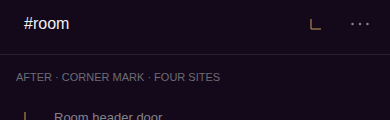
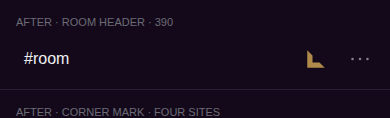
Redraw the corner mark as a filled slashed-frame polygon.
The two-stroke L was too thin; this keeps the bottom-left half of a square
frame as one filled polygon, with thickness held at the 4.5 placeholder.

diff --git a/apps/mobile/sources/components/buzz/CornerGlyph.tsx b/apps/mobile/sources/components/buzz/CornerGlyph.tsx
@@ -1,8 +1,7 @@
 import React from 'react';
-import Svg, { Line } from 'react-native-svg';
+import Svg, { Polygon } from 'react-native-svg';
 import { DECORATIVE_GLYPH_PROPS } from './decorative-glyph';
 import brand from '@/buzz/brand.json';
-import { CHROME_STROKE_REF_SIZE, chromeStrokeWidth } from './MembersGlyph';
 
 /**
  * The corner sigil, drawn rather than typed. Neither `◇` nor `└` is in Space
@@ -12,28 +11,36 @@ import { CHROME_STROKE_REF_SIZE, chromeStrokeWidth } from './MembersGlyph';
  * box is centred on the box by construction, so it sits level with the
  * overflow mark beside it with nothing to tune.
  *
- * The extent is 15 of the 24 viewBox at the 16px size that first matched the
- * overflow dots (~10px painted, the character's ~0.6em). The header now draws
- * at 28; the overflow holds its painted radius to that 16px weight, so this
- * mark holds the same ~10px painted extent instead of growing with the box.
- * Inline sizes (13, 11) stay on 15-of-24.
- *
- * Two strokes meeting at the bottom left: the box-drawing corner the Room
- * list already read as the kind mark, never a diamond.
+ * A square frame slashed corner to corner, bottom-left half kept: one filled
+ * polygon whose cut ends land on the diagonal, so each arm is full thickness
+ * at the elbow and tapers to a point. Extent is 15 of the 24 viewBox — the
+ * same relationship the retired diamond used so the header mark stays
+ * optically the same size as the overflow mark beside it. Thickness is a
+ * named placeholder until the board pick lands; do not invent another number.
  */
-const CORNER_EXTENT_AT_16 = 15;
+const VIEWBOX = 24;
+/** Outer painted square, same 15-of-24 as the retired `DIAMOND_EXTENT`. */
+export const CORNER_EXTENT = 15;
+/** Band thickness. Placeholder until the board pick lands. */
+export const CORNER_THICKNESS = 4.5;
 
-/** ViewBox extent that keeps the 16px painted arm at `size`, capped at 15. */
-function cornerExtent(size: number): number {
-  return Math.min(CORNER_EXTENT_AT_16, CORNER_EXTENT_AT_16 * (CHROME_STROKE_REF_SIZE / size));
-}
+const OUTER = (VIEWBOX - CORNER_EXTENT) / 2;
+const FAR = VIEWBOX - OUTER;
+const CORNER_POINTS = [
+  `${OUTER} ${OUTER}`,
+  `${OUTER} ${FAR}`,
+  `${FAR} ${FAR}`,
+  `${FAR - CORNER_THICKNESS} ${FAR - CORNER_THICKNESS}`,
+  `${OUTER + CORNER_THICKNESS} ${FAR - CORNER_THICKNESS}`,
+  `${OUTER + CORNER_THICKNESS} ${OUTER + CORNER_THICKNESS}`,
+].join(' ');
 
 /** Inline next to `type.meta` (bookmarks origin, Room-list tray). */
 export const CORNER_META_SIZE = 13;
 /** Inline next to the write-permission status line. */
 export const CORNER_STATUS_SIZE = 11;
 
-/** The shared corner mark: two strokes meeting at the bottom left. */
+/** The shared corner mark: a filled slashed-frame polygon. */
 export function CornerGlyph({
   color = brand.mark,
   size = 16,
@@ -43,12 +50,6 @@ export function CornerGlyph({
   size?: number;
   testID?: string;
 }) {
-  const extent = cornerExtent(size);
-  const reach = extent / 2;
-  const left = 12 - reach;
-  const right = 12 + reach;
-  const top = 12 - reach;
-  const bottom = 12 + reach;
   return (
     <Svg
       {...DECORATIVE_GLYPH_PROPS}
@@ -57,24 +58,7 @@ export function CornerGlyph({
       viewBox="0 0 24 24"
       width={size}
     >
-      <Line
-        stroke={color}
-        strokeLinecap="butt"
-        strokeWidth={chromeStrokeWidth(size)}
-        x1={left}
-        x2={left}
-        y1={top}
-        y2={bottom}
-      />
-      <Line
-        stroke={color}
-        strokeLinecap="butt"
-        strokeWidth={chromeStrokeWidth(size)}
-        x1={left}
-        x2={right}
-        y1={bottom}
-        y2={bottom}
-      />
+      <Polygon fill={color} points={CORNER_POINTS} />
     </Svg>
   );
 }

diff --git a/apps/mobile/sources/components/buzz/CornerGlyph.test.ts b/apps/mobile/sources/components/buzz/CornerGlyph.test.ts
@@ -9,12 +9,17 @@ vi.mock('react-native-svg', async () => {
     ReactModule.createElement(name, props, props.children as React.ReactNode);
   return {
     default: host('Svg'),
-    Line: host('Line'),
+    Polygon: host('Polygon'),
   };
 });
 
-import { CORNER_META_SIZE, CORNER_STATUS_SIZE, CornerGlyph } from './CornerGlyph';
-import { chromeStrokeWidth, MEMBERS_GLYPH_STROKE_WIDTH } from './MembersGlyph';
+import {
+  CORNER_EXTENT,
+  CORNER_META_SIZE,
+  CORNER_STATUS_SIZE,
+  CORNER_THICKNESS,
+  CornerGlyph,
+} from './CornerGlyph';
 import brand from '@/buzz/brand.json';
 
 const originalConsoleError = console.error;
@@ -33,7 +38,7 @@ beforeAll(() => {
 afterAll(() => vi.restoreAllMocks());
 
 describe('CornerGlyph', () => {
-  it('draws two strokes meeting at the bottom left, holding the 16px painted arm at 28', () => {
+  it('fills the slashed-frame polygon at the named extent and placeholder thickness', () => {
     let renderer!: ReturnType<typeof create>;
     act(() => {
       renderer = create(React.createElement(CornerGlyph, { size: 28, testID: 'corner-glyph' }));
@@ -45,38 +50,26 @@ describe('CornerGlyph', () => {
     expect(svg.props.height).toBe(28);
     expect(svg.props.accessibilityElementsHidden).toBe(true);
 
-    const extent = 15 * (16 / 28);
-    expect(extent * (28 / 24)).toBeCloseTo(10, 5);
-    const reach = extent / 2;
-    const left = 12 - reach;
-    const right = 12 + reach;
-    const top = 12 - reach;
-    const bottom = 12 + reach;
+    expect(CORNER_EXTENT).toBe(15);
+    expect(CORNER_THICKNESS).toBe(4.5);
 
-    const lines = renderer.root.findAllByType('Line' as never);
-    expect(lines).toHaveLength(2);
-    const [upright, across] = lines;
-    expect(upright.props.x1).toBeCloseTo(left, 5);
-    expect(upright.props.x2).toBeCloseTo(left, 5);
-    expect(upright.props.y1).toBeCloseTo(top, 5);
-    expect(upright.props.y2).toBeCloseTo(bottom, 5);
-    expect(across.props.x1).toBeCloseTo(left, 5);
-    expect(across.props.x2).toBeCloseTo(right, 5);
-    expect(across.props.y1).toBeCloseTo(bottom, 5);
-    expect(across.props.y2).toBeCloseTo(bottom, 5);
-    expect(across.props.stroke).toBe(brand.mark);
-    expect(across.props.strokeWidth).toBe(chromeStrokeWidth(28));
-    expect(chromeStrokeWidth(28) * (28 / 24)).toBeCloseTo(
-      MEMBERS_GLYPH_STROKE_WIDTH * (16 / 24),
-      5,
+    const outer = (24 - CORNER_EXTENT) / 2;
+    const far = 24 - outer;
+    const polygons = renderer.root.findAllByType('Polygon' as never);
+    expect(polygons).toHaveLength(1);
+    expect(polygons[0]!.props.fill).toBe(brand.mark);
+    expect(polygons[0]!.props.stroke).toBeUndefined();
+    expect(polygons[0]!.props.strokeWidth).toBeUndefined();
+    expect(polygons[0]!.props.points).toBe(
+      [
+        `${outer} ${outer}`,
+        `${outer} ${far}`,
+        `${far} ${far}`,
+        `${far - CORNER_THICKNESS} ${far - CORNER_THICKNESS}`,
+        `${outer + CORNER_THICKNESS} ${far - CORNER_THICKNESS}`,
+        `${outer + CORNER_THICKNESS} ${outer + CORNER_THICKNESS}`,
+      ].join(' '),
     );
-
-    act(() => {
-      renderer = create(React.createElement(CornerGlyph, { size: 16 }));
-    });
-    const at16 = renderer.root.findAllByType('Line' as never)[0]!;
-    expect(at16.props.x1).toBe(4.5);
-    expect(at16.props.y2).toBe(19.5);
   });
 
   it('keeps the inline sizes on the meta and status lines', () => {

diff --git a/apps/mobile/sources/components/buzz/WritePermissionOutcome.test.ts b/apps/mobile/sources/components/buzz/WritePermissionOutcome.test.ts
@@ -10,6 +10,7 @@ vi.mock('react-native-svg', async () => {
   return {
     default: host('Svg'),
     Line: host('Line'),
+    Polygon: host('Polygon'),
   };
 });
 
